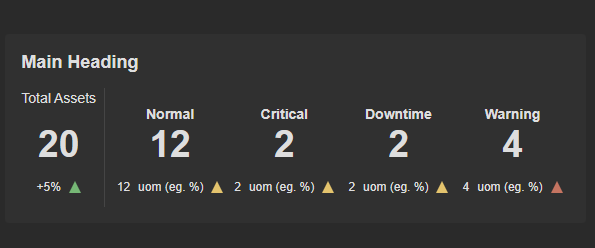
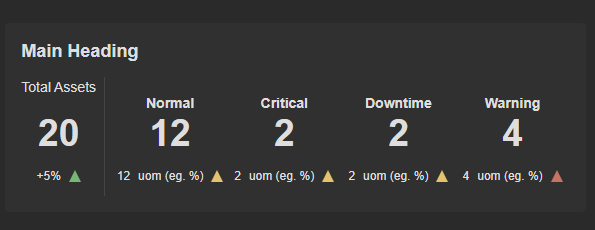
Updated for new Theme

diff --git a/docs/_sass/theme/_custom.scss b/docs/_sass/theme/_custom.scss
@@ -78,8 +78,17 @@ div.content > ul > li > img {
     width: 120px;
     color: var(--color-base-bg-3) !important;
 }
-div.inline_image > img
+div.inline_image 
 {
     margin-top: 0.5em !important;
     margin-bottom: 0.5em !important;
+    img
+    {
+        text-align: center;
+        display: block;
+        margin-left: auto !important;
+        margin-right: auto !important;
+        margin-top: 0px !important;
+        margin-bottom: 0px !important;
+    }
 }

diff --git a/docs/collections/_patterns/WidgetAlertCountRollupDynamic.md b/docs/collections/_patterns/WidgetAlertCountRollupDynamic.md
@@ -1,0 +1,64 @@
+---
+layout: project-top
+title: "Dynamic Alert Count Rollup"
+description: "<strong>Dynamic Alert Count Rollup</strong>"
+extract: "This widget is broken down into two sections, the left Total Assets is the total area and the right section past the vertical line is where you can get specific. The right section will grow and shrink depending on the data source that is provided."
+weight: 3
+thumbnail: "/assets/images/Patterns/Widgets/AlertCountRollupDynamic/DarkTheme/AlertCountRollupDynamicPublishedMode.png"
+image: "/assets/images/Patterns/Widgets/AlertCountRollupDynamic/DarkTheme/AlertCountRollupDynamicPublishedMode.png"
+categories: ["Widget", "Dynamic"]
+contributor: "XMPro"
+role: "Pattern"
+import_password: Dem0nstr@t1on
+toc: false
+toc_label: 
+
+gallery:
+  - image: "/assets/images/Patterns/Widgets/AlertCountRollupDynamic/DarkTheme/AlertCountRollupDynamicPublishedMode.png"
+    caption: "<strong>Above:</strong> Published View Dark Theme"
+  - image: "/assets/images/Patterns/Widgets/AlertCountRollupDynamic/LightTheme/AlertCountRollupDynamicPublishedMode.png"
+    caption: "<strong>Above:</strong> Published View Light Theme"
+gallery_limit: 2
+
+side_gallery:
+  - image: "/assets/images/Patterns/Widgets/AlertCountRollupDynamic/DarkTheme/AlertCountRollupDynamicTotalDataSource.png"
+    caption: "<strong>Above:</strong> Design Mode - Total"
+  - image: "/assets/images/Patterns/Widgets/AlertCountRollupDynamic/DarkTheme/AlertCountRollupDynamicChildDataSource.png"
+    caption: "<strong>Above:</strong> Design Mode - Child"
+  - image: "/assets/images/Patterns/Widgets/AlertCountRollupDynamic/LightTheme/AlertCountRollupDynamicTotalDataSource.png"
+    caption: "Design Mode - Total"
+  - image: "/assets/images/Patterns/Widgets/AlertCountRollupDynamic/LightTheme/AlertCountRollupDynamicChildDataSource.png"
+    caption: "<strong>Above:</strong> Design Mode - Child"
+
+files:
+  - title: "Widget"
+    link: "https://github.com/XMPro/Blueprints-Accelerators-Patterns/blob/master/Patterns/Widgets/Alert%20Count%20Rollup%20-%20Dynamic.xwid"
+    image: "/assets/images/icons/AD.png"
+---
+
+## App Designer Widget
+This widget contains only a main heading and no sub heading to maximize the space it utilizes.
+
+The Up and Down arrows are indicators and can be adjusted to dynamically show up and down or convert them into another shape in the block properties.
+
+The widget is configured using: 
+
+| Block                                  | Description                                                  |
+| -------------------------------------- | ------------------------------------------------------------ |
+| [Indicator](https://documentation.xmpro.com/blocks-toolbox/basic/indicator) | To visually indicate the active state of the assets |
+| [Text](https://documentation.xmpro.com/blocks-toolbox/basic/text) | To display the live data |
+
+<br />
+To configure and use the total section, select the box named *__Total Data Source__* and configure its data source under *Block Properties*.  
+<div class="inline_image">{% include framework/shortcodes/image.html src="/assets/images/Patterns/Widgets/AlertCountRollupDynamic/DarkTheme/AlertCountRollupDynamicTotalDataSource.png" %}</div>
+<div class="inline_image">{% include framework/shortcodes/image.html src="/assets/images/Patterns/Widgets/AlertCountRollupDynamic/LightTheme/AlertCountRollupDynamicTotalDataSource.png" %}</div>
+Make sure to change the fields within the box to get their values from the data source vs static.
+
+To configure and use the dynamic section, select the box named *__Child Data Source__* and configure its data source under *Block Properties*.  
+
+<div class="inline_image">{% include framework/shortcodes/image.html src="/assets/images/Patterns/Widgets/AlertCountRollupDynamic/DarkTheme/AlertCountRollupDynamicChildDataSource.png" %}</div>
+<div class="inline_image">{% include framework/shortcodes/image.html src="/assets/images/Patterns/Widgets/AlertCountRollupDynamic/LightTheme/AlertCountRollupDynamicChildDataSource.png" %}</div>
+
+Make sure to change the fields within the box to get their values from the data source vs static.  
+
+How this works is for every row returned in the data source it will create that many child sections.  If you have 4 it will create 4, if you have 3 it will create 3 etc.

diff --git a/docs/collections/_posts/2023-10-27-pattern-widget-alert-count-rollup-dynamic.md b/docs/collections/_posts/2023-10-27-pattern-widget-alert-count-rollup-dynamic.md
@@ -1,0 +1,18 @@
+---
+layout: post
+title: "Dynamic Alert Count Rollup"
+date: 2023-10-27
+categories: ["Widget", "Dynamic"]
+description: "This widget is broken down into two sections, the left Total Assets is the total area and the right section past the vertical line is where you can get specific. The right section will grow and shrink depending on the data source that is provided."
+contributor: "XMPro"
+role: "Pattern"
+thumbnail: "/assets/images/Patterns/Widgets/AlertCountRollupDynamic/DarkTheme/AlertCountRollupDynamicPublishedMode.png"
+image: "/assets/images/Patterns/Widgets/AlertCountRollupDynamic/DarkTheme/AlertCountRollupDynamicPublishedMode.png"
+gallery:
+  - image: "/assets/images/Patterns/Widgets/AlertCountRollupDynamic/DarkTheme/AlertCountRollupDynamicPublishedMode.png"
+    caption: "<strong>Above:</strong> Published View Dark Theme"
+  - image: "/assets/images/Patterns/Widgets/AlertCountRollupDynamic/LightTheme/AlertCountRollupDynamicPublishedMode.png"
+    caption: "<strong>Above:</strong> Published View Light Theme"
+---
+
+View more information and how to import by <strong>[Clicking Here](/patterns/WidgetAlertCountRollupDynamic/)</strong>

diff --git a/docs/categories/dynamic.md b/docs/categories/dynamic.md
@@ -1,0 +1,4 @@
+---
+layout: category
+title: Dynamic
+---

diff --git a/docs/categories/static.md b/docs/categories/static.md
@@ -1,0 +1,4 @@
+---
+layout: category
+title: Static
+---
